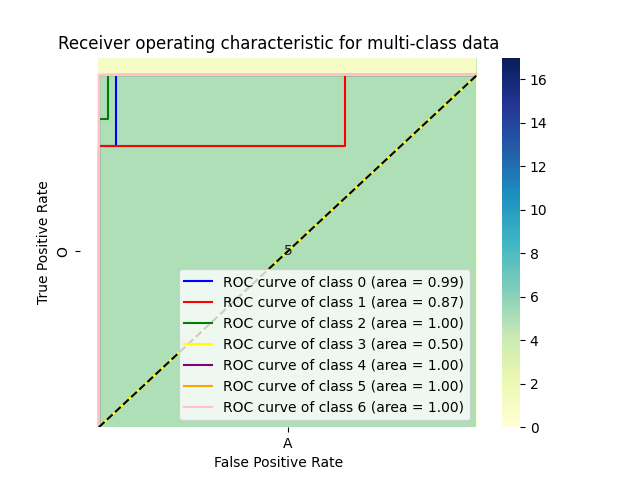
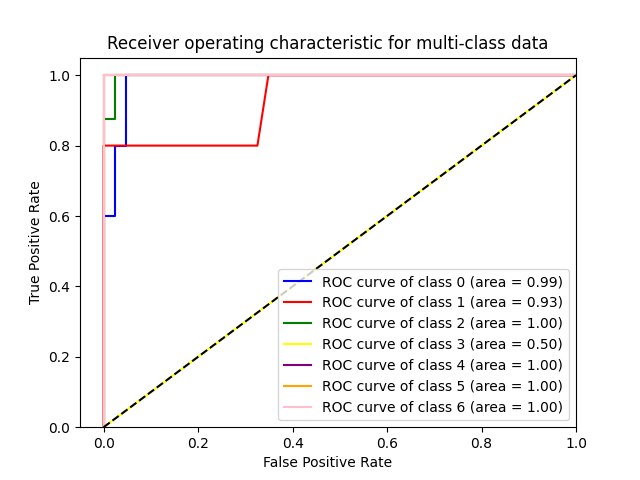
Test additional classifiers.

diff --git a/src/train.py b/src/train.py
@@ -5,6 +5,8 @@ import yaml
 
 from sklearn.linear_model import LogisticRegression
 from sklearn.ensemble import RandomForestClassifier
+from sklearn.svm import SVC
+from sklearn.neighbors import KNeighborsClassifier
 from sklearn.model_selection import GridSearchCV
 from sklearn.pipeline import Pipeline
 from sklearn.model_selection import train_test_split
@@ -23,8 +25,12 @@ preprocessor = preprocess()
 
 if model_type == 'random forest':
     ml_model = RandomForestClassifier()
-else:
+elif model_type == 'support vector machine':
+    ml_model = SVC()
+elif model_type == 'logistic regression':
     ml_model = LogisticRegression()
+elif model_type == 'kneighbors':
+    ml_model = KNeighborsClassifier()
 
 input = sys.argv[1]  #"data/prepared"
 output = os.path.join('model', sys.argv[2]) #model.pkl
@@ -47,16 +53,28 @@ clf = Pipeline(
             ('classifier', OneVsRestClassifier(ml_model)) 
         ]
     )
-     
+
+# print(clf.get_params().keys())  
 if model_type == 'random forest':
     param_grid = {
         'classifier__estimator__n_estimators': [50, 100],
         'classifier__estimator__max_features' :['sqrt', 'log2'],
-        'classifier__estimator__max_depth' : [4,6,8],
+        'classifier__estimator__max_depth' : [4,6,8]
     }
-else:    
+elif model_type == 'logistic regression':    
+    param_grid = {
+        'classifier__estimator__C': [0.1, 1.0, 10]
+    }
+elif model_type == 'support vector machine':
     param_grid = {
         'classifier__estimator__C': [0.1, 1.0, 10],
+        'classifier__estimator__kernel': ['linear'],
+        'classifier__estimator__probability': [True]
+    }
+elif model_type == 'kneighbors':
+    param_grid = {
+        'classifier__estimator__n_neighbors': [1, 3, 5],
+        'classifier__estimator__weights': ['uniform', 'distance']
     }
 
 grid_search = GridSearchCV(clf, param_grid, cv=10)

diff --git a/src/evaluate.py b/src/evaluate.py
@@ -59,20 +59,21 @@ with open(scores_file, 'w') as fd:
 
 ## Create metric plots
 
+# ROC AUC Curve
+with open(roc_auc_plots_file, 'w') as fd:
+    fig = plots.roc_auc_multiclass(X_test, y_test, model_type, model)
+    plt.savefig(roc_auc_plots_file)
+    plt.close()
+
 ## Confusion matrix
 predictions = model.predict(X_test)
 
 with open(confusion_matrix_plots_file, 'w') as fd:
     fig = plots.confusion_matrix_plot(
-            lb.inverse_transform(y_test), 
-            lb.inverse_transform(predictions), 
-            lb.classes_)
+                lb.inverse_transform(y_test), 
+                lb.inverse_transform(predictions), 
+                lb.classes_)
     plt.savefig(confusion_matrix_plots_file)
-
-# ROC AUC Curve
-with open(roc_auc_plots_file, 'w') as fd:
-    fig = plots.roc_auc_multiclass(model, X_test, y_test)
-    plt.savefig(roc_auc_plots_file)
-
+    plt.close()
 
 # python src/evaluate.py model.pkl data/prepared scores.json confusion_matrix.png ROC_AUC_curve.png

diff --git a/src/plots.py b/src/plots.py
@@ -5,9 +5,12 @@ from sklearn.metrics import roc_curve, auc, confusion_matrix
 import seaborn as sns
 
 
-def roc_auc_multiclass(model, X_test, y_test):
+def roc_auc_multiclass(X_test, y_test, model_type=None, model=None):
 
-    predictions = model.predict_proba(X_test)
+    if model_type in ['logistic regression', 'random forest', 'kneighbors']:
+        predictions = model.predict_proba(X_test)
+    elif model_type == 'support vector machine':
+        predictions = model.decision_function(X_test)
     n_classes = y_test.shape[1]
 
     fpr = dict()
